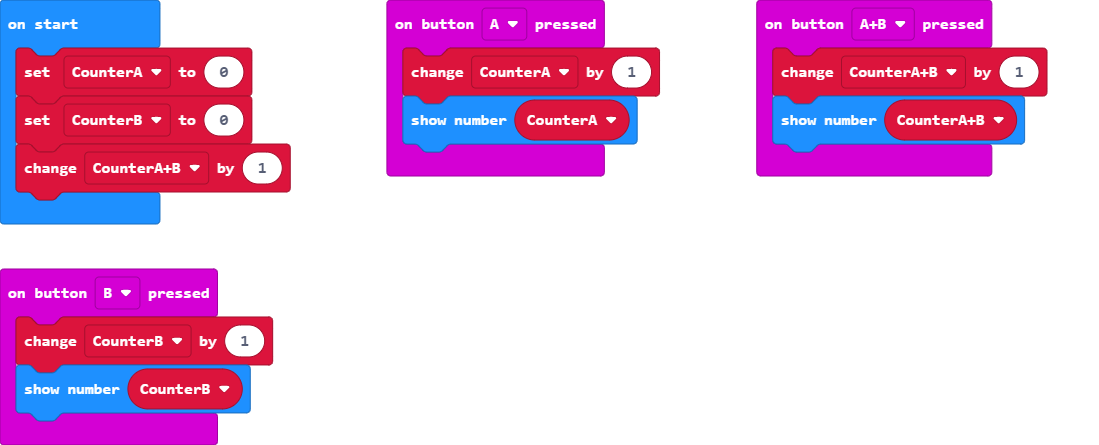
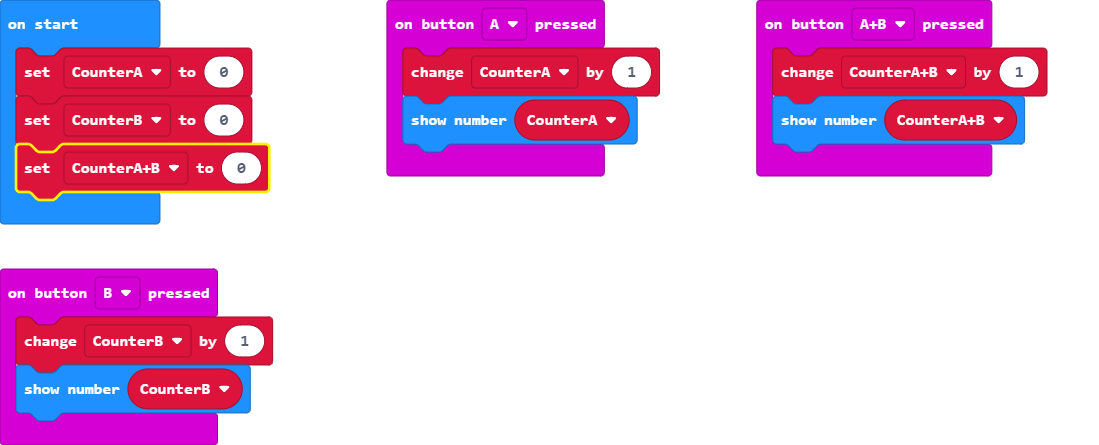
Update main.blocks, main.ts

Changed region(s): [[0.0, 0.3213, 0.2784, 0.4674]]

diff --git a/main.ts b/main.ts
@@ -15,4 +15,4 @@ let CounterB = 0
 let CounterA = 0
 CounterA = 0
 CounterB = 0
-CounterAB += 1
+CounterAB = 0
